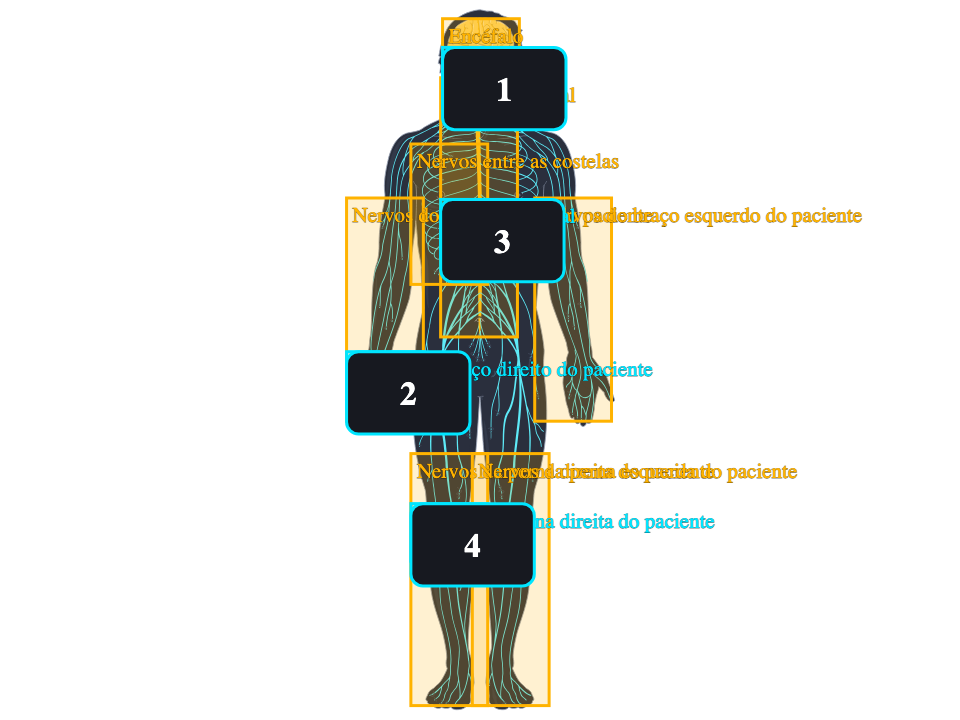
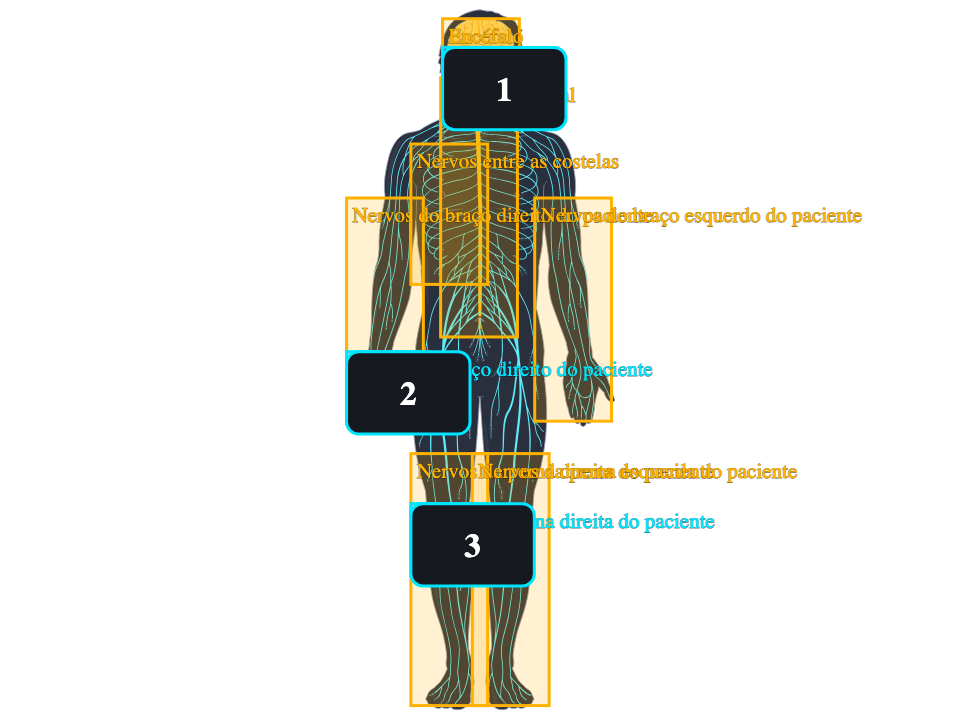
fix(figuras): m20-05 i2 sem a região da medula, licença Servier registrada e lote 1D atualizado
A área de toque da medula cobria 82% de nervo intercostal, o erro típico do item; ficam três regiões (encéfalo, braço e perna) e o retorno de erro deixa de citar a medula. Registra a divergência CC BY 4.0 (Servier) contra CC BY-SA 3.0 (Commons), uniformiza o crédito, atualiza os cortes de pelve e pescoço e o motivo de contraste-no-corpo, e regera os derivados e a prévia.

Changed region(s): [[0.4375, 0.275, 0.5938, 0.3972], [0.4688, 0.7333, 0.5, 0.7944]]

diff --git a/radiant-app/src/features/student-checkpoints/batches/rtg-2026-m20.ts b/radiant-app/src/features/student-checkpoints/batches/rtg-2026-m20.ts
@@ -6,7 +6,7 @@ export const RTG_2026_M20: ProductionBatchV1 = {
   "schemaVersion": 1,
   "state": "promoted",
   "batchId": "batch:rtg-2026:m20",
[2 lines of base64/hex data omitted]
   "trackId": "track:rtg-2026:m20",
   "unitId": "unit:rtg-2026:m20",
   "contentVersion": "rtg-2026-m20-v1",
@@ -1691,7 +1691,7 @@ export const RTG_2026_M20: ProductionBatchV1 = {
             "type": "hotspot",
             "feedback": {
               "correct": "Isso mesmo: o encéfalo e a medula espinal formam o sistema nervoso central.",
-              "incorrect": "Os nervos que saem para o braço e a perna são do sistema periférico: procure o encéfalo ou a medula."
+              "incorrect": "Os nervos que saem para o braço e a perna são do sistema periférico: procure o encéfalo."
             },
             "payload": {
               "prompt": "Toque numa estrutura que faz parte do sistema nervoso central.",
@@ -1715,14 +1715,6 @@ export const RTG_2026_M20: ProductionBatchV1 = {
                 },
                 {
                   "id": "region:rtg-2026:m20:aula-05:i2:3",
-                  "label": "Medula espinal",
-                  "x": 0.459,
-                  "y": 0.277,
-                  "width": 0.08,
-                  "height": 0.08
-                },
-                {
-                  "id": "region:rtg-2026:m20:aula-05:i2:4",
                   "label": "Nervos da perna direita do paciente",
                   "x": 0.428,
                   "y": 0.6995,
@@ -1731,8 +1723,7 @@ export const RTG_2026_M20: ProductionBatchV1 = {
                 }
               ],
               "correctRegionIds": [
-                "region:rtg-2026:m20:aula-05:i2:1",
-                "region:rtg-2026:m20:aula-05:i2:3"
+                "region:rtg-2026:m20:aula-05:i2:1"
               ]
             }
           }
@@ -5163,14 +5154,6 @@ export const RTG_2026_M20: ProductionBatchV1 = {
       ]
     },
     {
-      "claimId": "region:rtg-2026:m20:aula-05:i2:4",
-      "claimKind": "prompt",
-      "provenanceKind": "source-backed",
-      "sourceIds": [
-        "source:rtg-2026:m20:osx-nervoso"
-      ]
-    },
-    {
       "claimId": "interaction:rtg-2026:m20:aula-05:i2:answer",
       "claimKind": "correct-answer",
       "provenanceKind": "source-backed",
@@ -6713,7 +6696,7 @@ export const RTG_2026_M20: ProductionBatchV1 = {
       "reviewerRole": "ai-review-delegated",
       "reviewerRef": "claude-fable-5.1:ADR-2026-11-05",
       "decidedAt": "2026-11-06T00:00:00.000Z",
[2 lines of base64/hex data omitted]
     },
     {
       "schemaVersion": 1,
@@ -6722,7 +6705,7 @@ export const RTG_2026_M20: ProductionBatchV1 = {
       "reviewerRole": "ai-review-delegated",
       "reviewerRef": "claude-fable-5.1:ADR-2026-11-05",
       "decidedAt": "2026-11-06T00:00:00.000Z",
[2 lines of base64/hex data omitted]
     },
     {
       "schemaVersion": 1,
@@ -6731,7 +6714,7 @@ export const RTG_2026_M20: ProductionBatchV1 = {
       "reviewerRole": "ai-review-delegated",
       "reviewerRef": "claude-fable-5.1:ADR-2026-11-05",
       "decidedAt": "2026-11-06T00:00:00.000Z",
[2 lines of base64/hex data omitted]
     },
     {
       "schemaVersion": 1,
@@ -6740,7 +6723,7 @@ export const RTG_2026_M20: ProductionBatchV1 = {
       "reviewerRole": "ai-review-delegated",
       "reviewerRef": "claude-fable-5.1:ADR-2026-11-05",
       "decidedAt": "2026-11-06T00:00:00.000Z",
[2 lines of base64/hex data omitted]
     },
     {
       "schemaVersion": 1,
@@ -6749,7 +6732,7 @@ export const RTG_2026_M20: ProductionBatchV1 = {
       "reviewerRole": "ai-review-delegated",
       "reviewerRef": "claude-fable-5.1:ADR-2026-11-05",
       "decidedAt": "2026-11-06T00:00:00.000Z",
[2 lines of base64/hex data omitted]
     },
     {
       "schemaVersion": 1,
@@ -6758,7 +6741,7 @@ export const RTG_2026_M20: ProductionBatchV1 = {
       "reviewerRole": "ai-review-delegated",
       "reviewerRef": "claude-fable-5.1:ADR-2026-11-05",
       "decidedAt": "2026-11-06T00:00:00.000Z",
[2 lines of base64/hex data omitted]
     }
   ],
   "promotedAt": "2026-11-06T00:00:00.000Z",

diff --git a/radiant-app/src/features/student-checkpoints/batches/rtgImages.ts b/radiant-app/src/features/student-checkpoints/batches/rtgImages.ts
@@ -189,11 +189,11 @@ export const RTG_FIGURE_CREDITS: readonly RtgFigureCredit[] = [
   {
     "id": "sistema-nervoso",
     "alt": "Corpo humano de frente, com a cabeça de perfil: encéfalo e medula espinal numa cor, e uma rede de nervos de outra cor que desce pelos braços, tórax e pernas.",
-    "author": "Servier Medical Art (Servier)",
+    "author": "Servier Medical Art (Les Laboratoires Servier), kit SMART-Nervous-system",
     "license": "CC BY 4.0",
     "licenseUrl": "https://creativecommons.org/licenses/by/4.0/",
     "sourcePage": "https://smart.servier.com/smart_image/nervous-system/",
-    "modification": "Vetores copiados do pptx do kit SMART-Nervous-system (https://smart.servier.com/wp-content/uploads/2016/10/SMART-Nervous-system.pptx, sha256 acima; arquivo slide29.xml do pacote, grupo \"Group 3\", ilustração \"Nervous system\" da página de origem, CC BY 4.0). Mantidas todas as 360 formas do grupo (corpo, encéfalo, medula e nervos), sem alterar nenhum traçado; as duas circunferências dos mamilos, que o extrator ignorava, foram incluídas. Sem rótulos (a arte original não tem). Recoloridas por classe de cor para a paleta do app: encéfalo e medula espinal em âmbar (cerebelo em âmbar mais escuro), nervos periféricos em ciano, corpo em cinza-azulado escuro com contorno cinza; sem fundo; gradientes achatados em atributos de apresentação; enquadrada em 320x240."
+    "modification": "Vetores copiados do pptx do kit SMART-Nervous-system (https://smart.servier.com/wp-content/uploads/2016/10/SMART-Nervous-system.pptx, sha256 acima; arquivo slide29.xml do pacote, grupo \"Group 3\", ilustração \"Nervous system\" da página de origem, CC BY 4.0). Mantidas todas as 360 formas do grupo (corpo, encéfalo, medula e nervos), sem alterar nenhum traçado; as duas circunferências dos mamilos, que o extrator ignorava, foram incluídas. Sem rótulos (a arte original não tem). Recoloridas por classe de cor para a paleta do app: encéfalo e medula espinal em âmbar (cerebelo em âmbar mais escuro), nervos periféricos em ciano, corpo em cinza-azulado escuro com contorno cinza; sem fundo; gradientes achatados em atributos de apresentação; enquadrada em 320x240. Licença: vale a CC BY 4.0 declarada pelo Servier na página de origem (consultada em 2026-11-20); a Commons marca cópias PNG do mesmo kit como CC BY-SA 3.0, divergência registrada, e a arte veio do pptx do site, não da Commons."
   }
 ];
 

diff --git a/docs/evidence/2026-11-19-figuras/lote-1D.md b/docs/evidence/2026-11-19-figuras/lote-1D.md
@@ -8,7 +8,7 @@ Uma figura entra no lote: `sistema-nervoso`. As outras do lote ficam fora (abaix
 | --- | --- | --- | --- | --- |
 | `sistema-nervoso` | m20-05 (`i2`) | Servier Medical Art (Servier), kit SMART-Nervous-system | CC BY 4.0 | https://smart.servier.com/smart_image/nervous-system/ |
 
-Registro e crédito em `content-manifest/rtg-2026/figuras.json` (um autor só; a página de origem não cita obra derivada); data de consulta 2026-11-20. Passou para o `build-spec.mjs` (entrada em `FIGURES`) e a regeneração pela fonte `scripts/content/figuras/fontes/sistema-nervoso.svg` devolve o spec entregue (teste de regeneração dos specs: 16 de 17, o 17º pula só sem Chrome). Receitas históricas em `scripts/content/figuras/receitas/sistema-nervoso.*`. Cobre os 4 alvos exigidos pela aula (encéfalo, medula espinal, nervos do braço direito e da perna direita do paciente), e o corpo de frente tem o lado direito do paciente à esquerda de quem vê, como a aula diz.
+Registro e crédito em `content-manifest/rtg-2026/figuras.json` (um autor só, no mesmo formato das outras entradas Servier; a página de origem não cita obra derivada); data de consulta 2026-11-20. **Licença:** a Commons marca as cópias PNG do mesmo kit como CC BY-SA 3.0, e a página do Servier diz CC BY 4.0. Vale a oferta do detentor (CC BY 4.0), porque a arte veio do pptx do site, e não da Commons; a divergência está registrada no `modification` da entrada. Vale também para as figuras SMART já integradas. Passou para o `build-spec.mjs` (entrada em `FIGURES`) e a regeneração pela fonte `scripts/content/figuras/fontes/sistema-nervoso.svg` devolve o spec entregue (teste de regeneração dos specs: 16 de 17, o 17º pula só sem Chrome). Receitas históricas em `scripts/content/figuras/receitas/sistema-nervoso.*`. Cobre os 4 alvos exigidos pela aula (encéfalo, medula espinal, nervos do braço direito e da perna direita do paciente), e o corpo de frente tem o lado direito do paciente à esquerda de quem vê, como a aula diz.
 
 ## Contagem de caminhos, fonte contra original
 
@@ -20,16 +20,16 @@ O agente entregou o corpo em 85,2 x 220 do quadro de 320 x 240 (margem de 10 em 
 
 ## Item alterado (uma linha)
 
-1. m20-05 `i2` (hotspot): só coordenadas e o campo `alvo` nas quatro regiões, e o enunciado, a ajuda e os retornos ficam como estavam. O agente de arte tinha estendido as regiões para o fundo vazio ao lado do corpo, para o selo não cobrir a estrutura; isso foi desfeito (tocar no fundo não pode contar como acerto): regiões de 0,08 x 0,08 sobre a arte, empilhadas de 0,21 em 0,21 em y pela régua de 44 pt (encéfalo y 0,0658, medula 0,277, braço 0,4885, perna 0,6995). Nenhuma ficha foi retirada. Nenhuma estrutura fica inteira sob o selo (55 a 71% do encéfalo, 72% da medula, 67% do braço e 65% da perna à vista). As frases da aula que falam da figura (alvos "do paciente") continuam verdadeiras.
+1. m20-05 `i2` (hotspot): coordenadas e campo `alvo` nas regiões. **Depois da revisão, a região "Medula espinal" foi retirada** (a área de toque dela cobre 82% de nervo intercostal, o erro típico do item) e o `feedbackIncorrect` deixou de citar a medula; ficam 3 regiões (Encéfalo certa, braço e perna distratores). O texto abaixo descreve a versão anterior à revisão, com quatro regiões. Enunciado, ajuda e `feedbackCorrect` não mudaram. O agente de arte tinha estendido as regiões para o fundo vazio ao lado do corpo, para o selo não cobrir a estrutura; isso foi desfeito (tocar no fundo não pode contar como acerto): regiões de 0,08 x 0,08 sobre a arte, empilhadas de 0,21 em 0,21 em y pela régua de 44 pt (encéfalo y 0,0658, medula 0,277, braço 0,4885, perna 0,6995). Nenhuma ficha foi retirada. (Versão anterior à revisão:) nenhuma estrutura fica inteira sob o selo (55 a 71% do encéfalo, 72% da medula, 67% do braço e 65% da perna à vista). As frases da aula que falam da figura (alvos "do paciente") continuam verdadeiras.
 
 Declaradas em `figuras/sistema-nervoso.alvos.json`: as sete regiões (encéfalo, medula, braços direito e esquerdo, pernas direita e esquerda, nervos entre as costelas), todas sobre a arte (caixa da estrutura; 0,08 de largura mínima, centrada na arte). A região de aula do encéfalo estende-se uns 0,05 abaixo do cérebro, sobre o tronco encefálico, porque a régua pede o centro em y >= 0,105.
 
 ## Figuras do lote que ficam fora
 
-- `contraste-no-corpo` (m26, só `visual` do conceito, sem interação com `diagramId`): nenhuma arte de licença aceita e de um autor só cobre os 7 alvos (esôfago, estômago, intestino delgado e cólon, mais rins, ureteres e bexiga). Candidatas: NIAID BioArt 212 e 852 (domínio público: digestivo e rins, sem ureteres nem bexiga), Mariana Ruiz (digestivo, sem urinário), Jordi March e BruceBlaus (urinário, CC BY-SA 3.0 e 4.0, recusadas), Servier (cobriria os 7 só compondo dois sistemas, que seria colar peça em posição inventada, e há divergência de licença entre a Commons, BY-SA 3.0, e o site, CC BY 4.0). Não entra; a figura atual segue. A saída (Servier compondo dois troncos) é decisão do dono.
+- `contraste-no-corpo` (m26, só `visual` do conceito, sem interação com `diagramId`): nenhuma arte de licença aceita e de um autor só cobre os 7 alvos (esôfago, estômago, intestino delgado e cólon, mais rins, ureteres e bexiga). Candidatas: NIAID BioArt 212 e 852 (domínio público: digestivo e rins, sem ureteres nem bexiga), Mariana Ruiz (digestivo, sem urinário), Jordi March e BruceBlaus (urinário, CC BY-SA 3.0 e 4.0, recusadas), Servier (cobriria os 7, mas exige converter o PPTX e decidir a licença: há divergência de licença entre a Commons, BY-SA 3.0, e o site, CC BY 4.0). Não entra; a figura atual segue. Motivo do relatório: nenhuma arte de licença aceita e de um autor só cobre os 7 alvos sem conversão do PPTX e sem decisão de licença (a Servier cobriria os 7, mas há a divergência BY-SA 3.0 da Commons contra CC BY 4.0 do site). Juntar dois sistemas (digestivo e urinário) no mesmo corpo é decisão do dono, e não foi tomada.
 - `corpo-inteiro-composicao`: não há `relatorio.md` no disco (a pasta não foi criada); o motivo vem do registro de andamento do controlador (`progress.md`, 2026-11-20): é esquema de exame (linhas de corte de regiões do corpo e legenda de osso, magra e gordura), e não anatomia, então foi reclassificada para a fase de esquemas (fases 3 a 5), decisão do dono. Fica como estava.
 - `corte-abdome-superior` (m28): nenhum corte axial desenhado de licença aceita. Candidatas: Dr. Swapnil Banerjee (CC BY-SA 4.0, recusada), Peritoneum.svg (BY-SA 3.0, e corte sagital), Gray1097 (domínio público, os 7 alvos existem na gravura) reprovada por ser raster de 800 x 595 px, com rótulos gravados dentro dos órgãos, orientação de dissecção (fígado à direita da figura, o oposto da aula), nível baixo demais (baço e estômago pequenos) e preto e branco com hachuras. Não entra.
-- `corte-pelve` e `corte-pescoco` (m28): ainda com busca em curso quando este lote foi fechado (uma busca curta conjunta, só leitura, sem escrever no repositório); não estão neste lote. A pista do relatório do abdome é que não há série de cortes axiais desenhados das três regiões com licença aceita.
+- `corte-pelve` e `corte-pescoco` (m28): ambos ficam fora (`1D/cortes-pelve-pescoco/relatorio.md`). Pelve: nenhuma candidata (os cortes vistos são coronais, sagitais ou traçados de tomografia). Pescoço: só uma candidata parcial (CC BY 4.0, raster webp de 1418 px, abaixo de 1.600 px; sem tireoide, no nível da cricoide; rótulos gravados), que serve só de referência de redesenho. Pista não esgotada: Sobotta 1906 e Braus 1921, domínio público.
 
 ## Números (2026-11-20, Node 20.20.2, árvore com só este lote)
 
@@ -44,8 +44,9 @@ Declaradas em `figuras/sistema-nervoso.alvos.json`: as sete regiões (encéfalo,
 
 ## Para o dono olhar no simulador
 
-- `m20-05`, interação 2: o selo 1 cobre a metade de baixo do encéfalo e o selo 2 cobre a mão (as partes de cima ficam à vista). O encéfalo sozinho é reconhecível pelo cérebro com giros? Se não, a saída é retirar a região Encéfalo (restam três, o mínimo), com o fato já no verdadeiro ou falso `i4`.
-- As áreas de toque de 44 pt passam da arte: tocar a borda interna do braço, junto ao tronco, conta como medula; tocar a borda da perna esquerda conta como perna direita (os dois são erro do mesmo tipo).
-- Os nervos são linhas finas (do agente de arte: uns 0,5 unidade): visíveis em ciano no quadro escuro, mas finos.
+- m20-05 `i2`, depois da correção: o selo 1 cobre a metade de baixo do encéfalo. A calota com giros, à vista sobre a cabeça, basta para reconhecê-lo?
+- A área de toque de 44 pt do encéfalo vai até os nervos do pescoço (21% do que há de colorido nela): tocar a base do pescoço conta como Encéfalo. Aceitável? Não há posição mais alta, pela régua (y >= 0,105).
+- A área de toque da perna direita cobre parte da perna esquerda (59% dos pixels de nervo dela) e o selo cobre as duas pernas; os dois lados são erro do mesmo tipo. O selo do braço cobre a mão e a lateral do quadril: a leitura de "braço" e "perna" está clara?
+- Os nervos são linhas finas (uns 0,5 unidade): visíveis em ciano, mas finos num iPhone estreito.
 
 Não rodado: o gate completo (`EXPO_NO_DOTENV=1 npm run quality`), o simulador e o Android.
